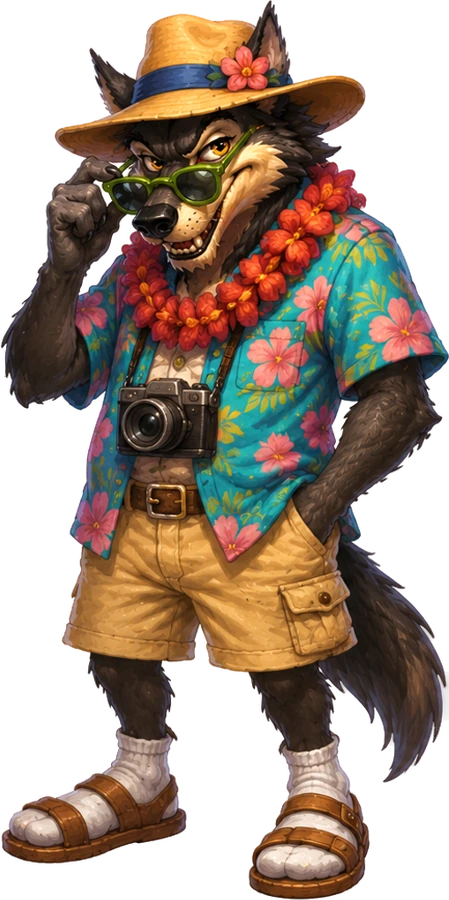
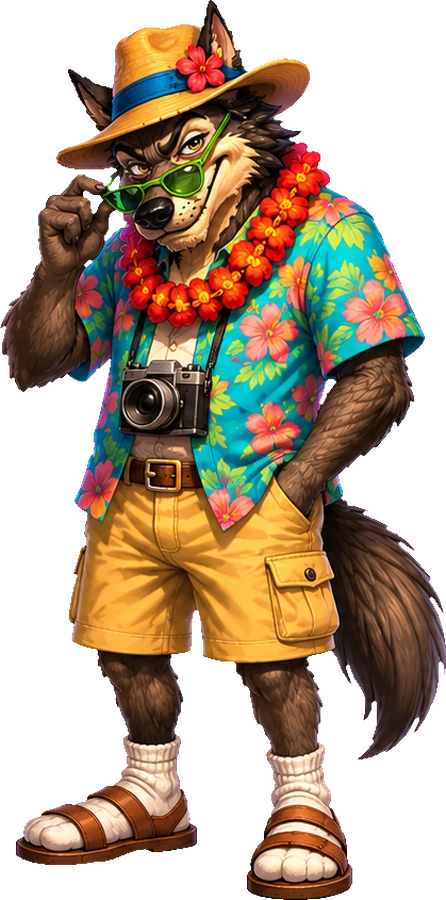
Wolf: clean tourist costume art + new allergic pose (costume-matching reaction)
De-fringe and replace the tourist (Hank) poses — sly/cheers/hungry/shrug/arms —
and add the new swollen wolf_tourist_allergic. Wire a per-customer moodArt
override so his allergic reaction during a costumed round uses THAT costume's
swollen pose instead of flipping to his default look; add a scale for the wide
tourist-allergic so it fits the portrait frame.

Claude-Session: https://claude.ai/code/session_01LXqynh2272HPNfiS49TDfc

diff --git a/docs/js/ui.js b/docs/js/ui.js
@@ -7,7 +7,7 @@
 
 const { R, newRound, applyTripleMatch, scoreMix, scoreResult, BALANCE } = ENGINE;
 const D = DATA;
-const BUILD = "v599"; // bump on each deploy; shown on the start screen to verify the live version
+const BUILD = "v600"; // bump on each deploy; shown on the start screen to verify the live version
 
 
 if (typeof ART !== "undefined" && ART.setVersion) ART.setVersion(BUILD); // cache-bust all art per build so updated images always refetch
@@ -317,7 +317,7 @@ const CHAR_OFFY = { fish: 9, bo_peep: 2, gingerbread: 5, gothel: 6, stepmother: 
 const CHAR_OFFX = {};
 // per-mood scale overrides ("<id>_<mood>") for the results portrait only, when one
 // pose frames differently than the rest (e.g. the sponge sword's tall allergic pose).
-const CHAR_MOOD_SCALE = { sword_allergic: 0.88, wolf_allergic: 0.82 };   // wolf's puffed-up allergic pose is wide — shrink so it fits the frame
+const CHAR_MOOD_SCALE = { sword_allergic: 0.88, wolf_allergic: 0.82, wolf_tourist_allergic: 0.66 };   // wolf's puffed-up allergic poses are wide — shrink so they fit the frame
 const PEARL = '<span class="pearl-ic" aria-label="pearl"></span>';   // a glossy CSS pearl (nicer than any emoji)
 
 /* ═══════════════════════════════════════════════════════════════════════════
@@ -359,7 +359,10 @@ function pacing(key, dflt) { const p = REALM_PACING[GAME.realm]; return p && p[k
 // happy / angry / allergic are customer_<id>_<mood>.png. If that art isn't there,
 // it falls back to the given emoji (the emotion face we've always shown).
 function custMoodArt(c, mood, fallbackEmoji, cls) {
-  const key = mood && mood !== "normal" ? "customer_" + c.id + "_" + mood : "customer_" + c.id;
+  // A costumed customer (e.g. the wolf in his tourist get-up) can override its per-mood
+  // art so the reaction stays in the same outfit as the rest of the round.
+  const override = c.moodArt && c.moodArt[mood];
+  const key = override || (mood && mood !== "normal" ? "customer_" + c.id + "_" + mood : "customer_" + c.id);
   return ART.tag(key, fallbackEmoji || c.emoji, cls || "cust-art");
 }
 // Customers whose portrait should hover (shown whole + gently floating). The
@@ -1142,7 +1145,7 @@ const WOLF_VISITS = [
       { fig: "wolf_tourist_hungry", text: "Say, between us… I’m hungry <i>all</i> the time. Concerning amounts. Whip me up something to take the edge off? Asking for a friend. The friend is me.", cta: "Sure, ‘Hank’  ▸" },
     ],
     wish: "Something to quiet a rumbling tummy, if you’d be so kind — I’ve a very full itinerary. Of snacking.",
-    outroFigWin: "wolf_tourist_cheers", outroFigLose: "wolf_tourist_arms",
+    outroFigWin: "wolf_tourist_cheers", outroFigLose: "wolf_tourist_arms", allergicFig: "wolf_tourist_allergic",
     outroWin: "Mwah — <i>delicious</i>. I mean… adequate. For a tourist. Ahem. I’ll just be… touristing. Elsewhere. Ta!" },
   { costume: "wolf_delivery", custArt: "wolf_delivery_angry", name: "“Wally, W. Wolf Deliveries”",
     intro: [
@@ -1176,9 +1179,12 @@ function playWolfVisit() {
   const i = GAME.wolfArcStep || 0; if (i >= WOLF_VISITS.length) return;
   const v = WOLF_VISITS[i];
   SFX.unlock();
-  [v.costume, v.custArt, v.outroFigWin, v.outroFigLose].concat(v.intro.map(b => b.fig)).forEach(f => { if (f) ART.ensure(f, () => {}); });   // pre-warm every expression this visit uses
+  [v.costume, v.custArt, v.outroFigWin, v.outroFigLose, v.allergicFig].concat(v.intro.map(b => b.fig)).forEach(f => { if (f) ART.ensure(f, () => {}); });   // pre-warm every expression this visit uses
   const beats = v.intro.map((b, idx) => ({ name: v.name, fig: b.fig || v.costume, text: b.text, cta: b.cta || (idx === v.intro.length - 1 ? "Make his wish  ▸" : undefined) }));
-  renderStoryBeats(beats, () => startStoryWish(Object.assign(wolfCust(v.name), { art: v.custArt || v.costume }), "wolf-arc", v.wish));
+  // moodArt keeps his ALLERGIC reaction in THIS visit's costume (e.g. the swollen tourist)
+  // instead of flipping to his default look. happy/angry still use the base face for now.
+  const moodArt = v.allergicFig ? { allergic: v.allergicFig } : null;
+  renderStoryBeats(beats, () => startStoryWish(Object.assign(wolfCust(v.name), { art: v.custArt || v.costume, moodArt }), "wolf-arc", v.wish));
 }
 // A wolf visit comes due every few customers (Willow, after the tutorial). Can precede Red's warning.
 function maybeWolfArc() {
@@ -9903,7 +9909,7 @@ function renderResult(res) {
       <div class="cust-banner res-banner"><img src="art/ui/${bannerImg}.png" alt="${bannerAlt}" draggable="false"></div>
       <div class="cust-portrait res-portrait">
         <button class="res-results" id="recap-btn" aria-label="Round recap"><img src="art/ui/res_results.png" alt="Results" draggable="false"></button>
-        <div class="cust-char ${isPerfect ? "boss-emoji" : ""}${custFx}${custFloatClass(c)}" style="--char-scale:${CHAR_MOOD_SCALE[c.id + "_" + mood] || CHAR_SCALE[c.id] || 1};--char-y:${CHAR_OFFY[c.id] || 0}%;--char-x:${CHAR_OFFX[c.id] || 0}%">${custMoodArt(c, mood, emoji, "cust-char-art")}</div>
+        <div class="cust-char ${isPerfect ? "boss-emoji" : ""}${custFx}${custFloatClass(c)}" style="--char-scale:${CHAR_MOOD_SCALE[(c.moodArt && c.moodArt[mood]) || (c.id + "_" + mood)] || CHAR_MOOD_SCALE[c.id + "_" + mood] || CHAR_SCALE[c.id] || 1};--char-y:${CHAR_OFFY[c.id] || 0}%;--char-x:${CHAR_OFFX[c.id] || 0}%">${custMoodArt(c, mood, emoji, "cust-char-art")}</div>
       </div>
       <div class="res-panel">
         ${earnedLine}

diff --git a/docs/index.html b/docs/index.html
@@ -9,10 +9,10 @@
 <meta name="apple-mobile-web-app-title" content="Wish Pop">
 <meta name="mobile-web-app-capable" content="yes">
 <title>Wish Pop: Bubble Shop</title>
-<link rel="manifest" href="manifest.webmanifest?v=599">
-<link rel="apple-touch-icon" href="apple-touch-icon.png?v=599">
-<link rel="icon" type="image/png" href="icon-192.png?v=599">
-<link rel="stylesheet" href="css/styles.css?v=599">
+<link rel="manifest" href="manifest.webmanifest?v=600">
+<link rel="apple-touch-icon" href="apple-touch-icon.png?v=600">
+<link rel="icon" type="image/png" href="icon-192.png?v=600">
+<link rel="stylesheet" href="css/styles.css?v=600">
 
 
 </head>
@@ -42,11 +42,11 @@
   <p class="muted">Wish Pop is played upright. Turn your phone back to keep making wishes come true!</p>
 </div>
 
-<script src="js/audio.js?v=599"></script>
-<script src="js/data.js?v=599"></script>
-<script src="js/engine.js?v=599"></script>
-<script src="js/art.js?v=599"></script>
-<script src="js/ui.js?v=599"></script>
+<script src="js/audio.js?v=600"></script>
+<script src="js/data.js?v=600"></script>
+<script src="js/engine.js?v=600"></script>
+<script src="js/art.js?v=600"></script>
+<script src="js/ui.js?v=600"></script>
 
 
 <script>
